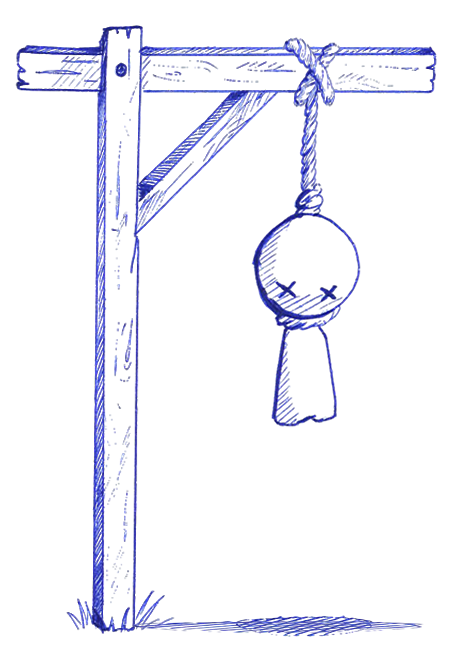
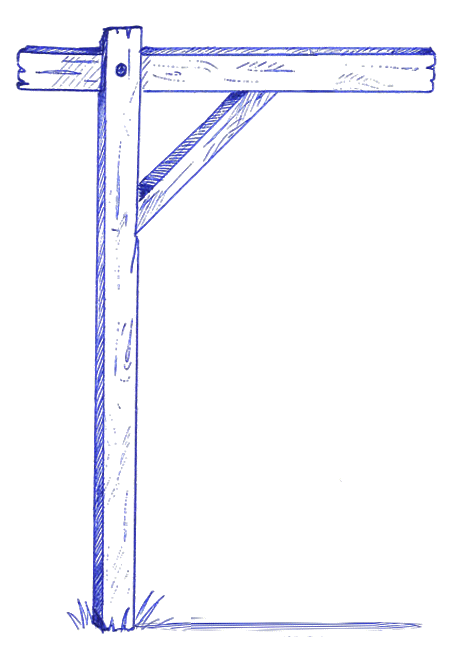
v 1.9.1

Changed region(s): [[0.56, 0.0615, 0.8089, 0.6769], [0.4044, 0.9231, 0.84, 0.9846]]

diff --git a/hangedman_pygame.py b/hangedman_pygame.py
@@ -162,11 +162,18 @@ def show_text(surface, text):
     space = 2 * w_p
     up_space = 13 * h_p
     letter_height = font.render("Й", False, (77, 85, 194)).get_size()[1]
+    strings = 0
     for word in words:
         word_width = font.render(word + " ", False, (77, 85, 194)).get_size()[0]
         if start_x + space + word_width >= max_width:
-            up_space += letter_height + h_p
-            space = 2 * w_p
+            if strings < 8:
+                up_space += letter_height + h_p
+                space = 2 * w_p
+                strings += 1
+            else:
+                word_surface = font.render("... ", False, (77, 85, 194))
+                screen.blit(word_surface, (start_x + space, start_y + up_space))
+                break
 
         word_surface = font.render(word + " ", False, (77, 85, 194))
         screen.blit(word_surface, (start_x + space, start_y + up_space))
@@ -190,8 +197,7 @@ def background():  # Фон
 
 
 def hangedman():  # Отображение виселицы
-    animation = ["0.png", "1.png", "2.png", "3.png", "4.png", "5.png", "6.png", "7.png"]
-    hangedman = pygame.image.load(f'img/animation/{animation[mistakes]}')
+    hangedman = pygame.image.load(f'img/animation/{mistakes}.png')
     hangedman_scaled = pygame.transform.scale(hangedman,
                                               (450 * relative_w,
                                                650 * relative_h))
@@ -243,7 +249,7 @@ def settings_elements(sound_volume, music_volume):
 
 
 lang = "ru"
-difficulty = 1
+difficulty = 3
 words, data = read_json(lang)
 msg = "None"
 word, prompt, secret = chose_word(difficulty)
@@ -251,6 +257,7 @@ print(word)
 print(prompt)
 
 mistakes = 0
+max_mistakes = 10
 b = 7
 displayIndex = 0
 
@@ -273,7 +280,7 @@ message = {"ru": {"None": "",
                   "Defeat": "Вы проиграли...",
                   "Replay": "Сыграть ещё?",
                   "Settings": "        Настройки",
-                  "Difficulty": "Длинна слов"},
+                  "Difficulty": "Длина слов"},
            "ua": {"None": "",
                   "NotEnoughScore": "Недостатньо очків.",
                   "Language": "Мова",
@@ -358,7 +365,7 @@ while True:
             # Изменение фона(вниз) и анимации(вверх)
             if event.key == K_UP:
                 mistakes += 1
-                if mistakes == 8:
+                if mistakes == max_mistakes + 1:
                     mistakes = 0
             elif event.key == K_DOWN:
                 b += 1
@@ -381,7 +388,7 @@ while True:
                         desc = True
                 elif hint.pressed(event.pos):  # Помощь
                     click_sound.play()
-                    if mistakes < 7:
+                    if mistakes < max_mistakes:
                         if score > 1:
                             place = secret.find("_")
                             if place != -1:
@@ -410,7 +417,6 @@ while True:
                         if not game_end:
                             for j in range(len(keyboard)):
                                 if keyboard[j].pressed(event.pos):
-                                    print(j)
                                     if letters[lang][j] != " ":
                                         click_sound.play()
                                         guesed = False
@@ -419,10 +425,9 @@ while True:
                                                 guesed = True
                                                 secret = secret[:i] + letters[lang][j] + secret[i + 1:]
                                                 score += 1
-                                        print(letters[lang][j])
                                         letters[lang][j] = " "
                                         if not guesed:
-                                            if mistakes < 7:
+                                            if mistakes < max_mistakes:
                                                 mistakes += 1
                 if menu_opened:
                     if sound_button.pressed(event.pos):  # Звук
@@ -475,6 +480,8 @@ while True:
             elif mode == "settings":
                 if back_button.pressed(event.pos):  # Назад
                     click_sound.play()
+                    menu_opened = False
+                    languages = False
                     mode = back_mode
                 elif volume_bar.pressed(event.pos):  # Полоса громкости звуков
                     click_sound.play()
@@ -638,8 +645,8 @@ while True:
                 h = f.render(prompt, True, (0, 0, 0))
                 show_text(description_rect, prompt)
             # Конец раунда.
-            if secret.find("_") == -1 or mistakes > 6:
-                if mistakes > 6:
+            if secret.find("_") == -1 or mistakes > max_mistakes - 1:
+                if mistakes > max_mistakes - 1:
                     defeat = True
                 else:
                     victory = True

diff --git a/README.md b/README.md
@@ -1,6 +1,12 @@
 # HangedMan
 Игра виселица
 
+v 2.0
+  1. Установлена максимальная длинна описания.
+  2. Изменена анимация виселицы.
+  3. Количество попыток увеличено до 10.
+  4. Усправлены мелкие баги.
+
 v 1.9
   1. Добавлены кнопки меню.
   2. Возможность включить и выключить звуки и музыку.
